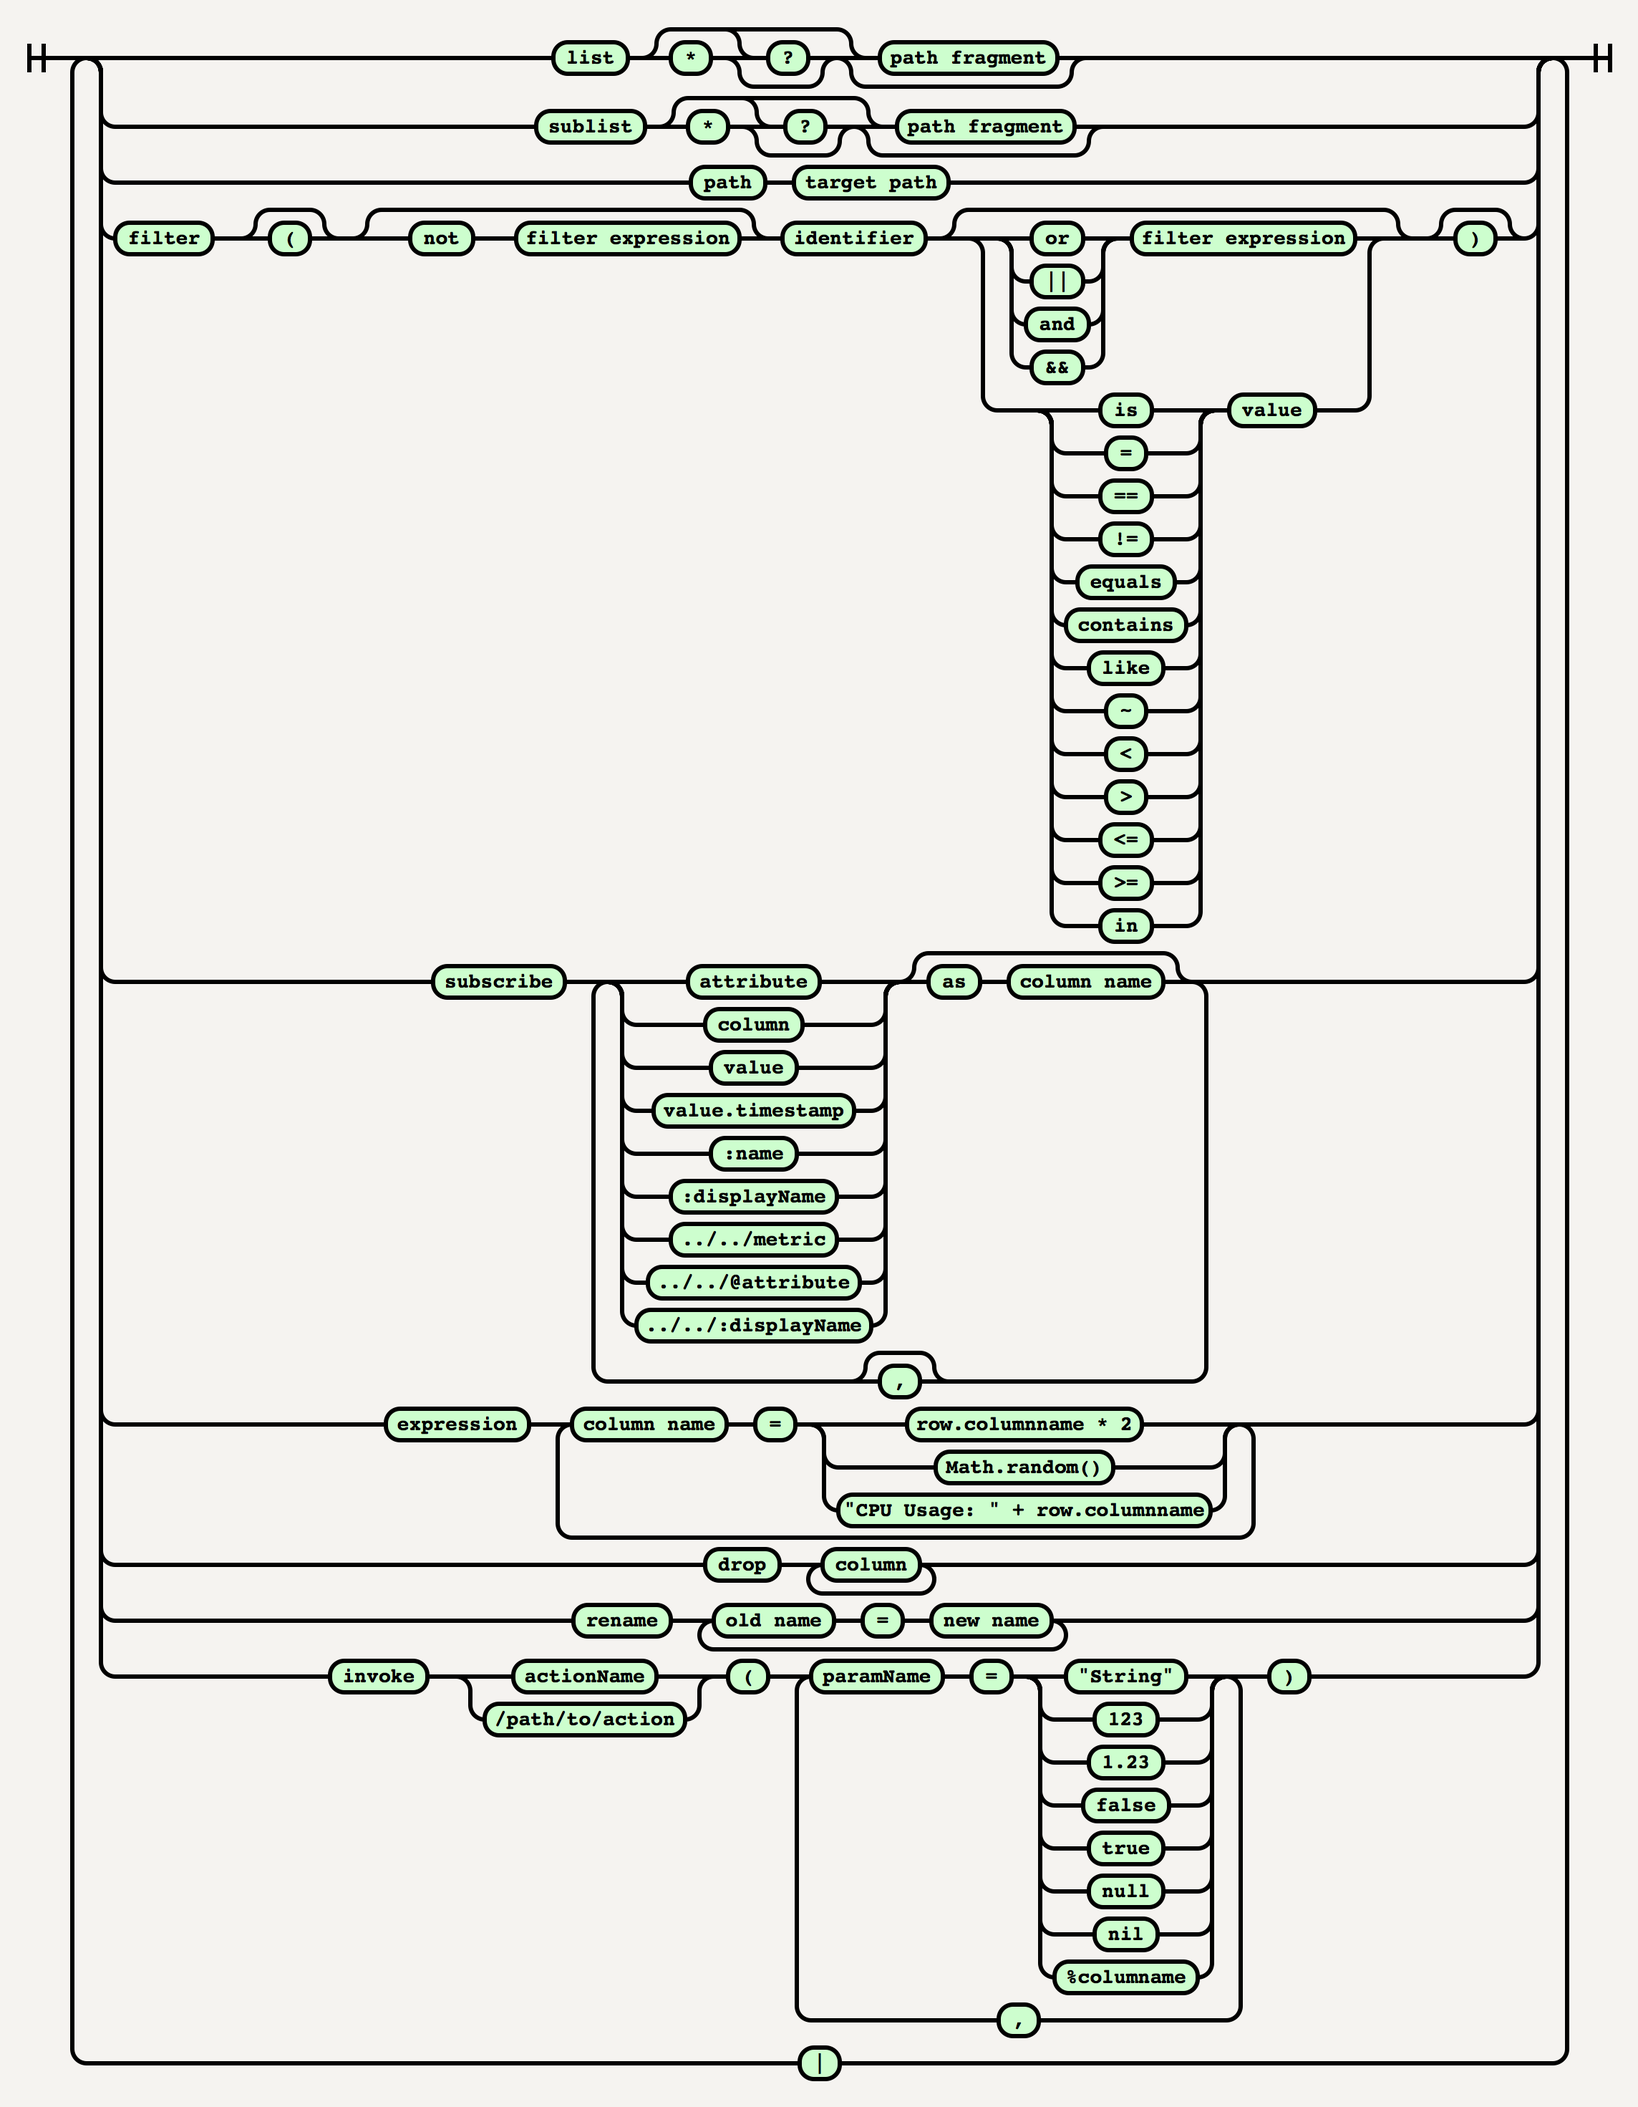
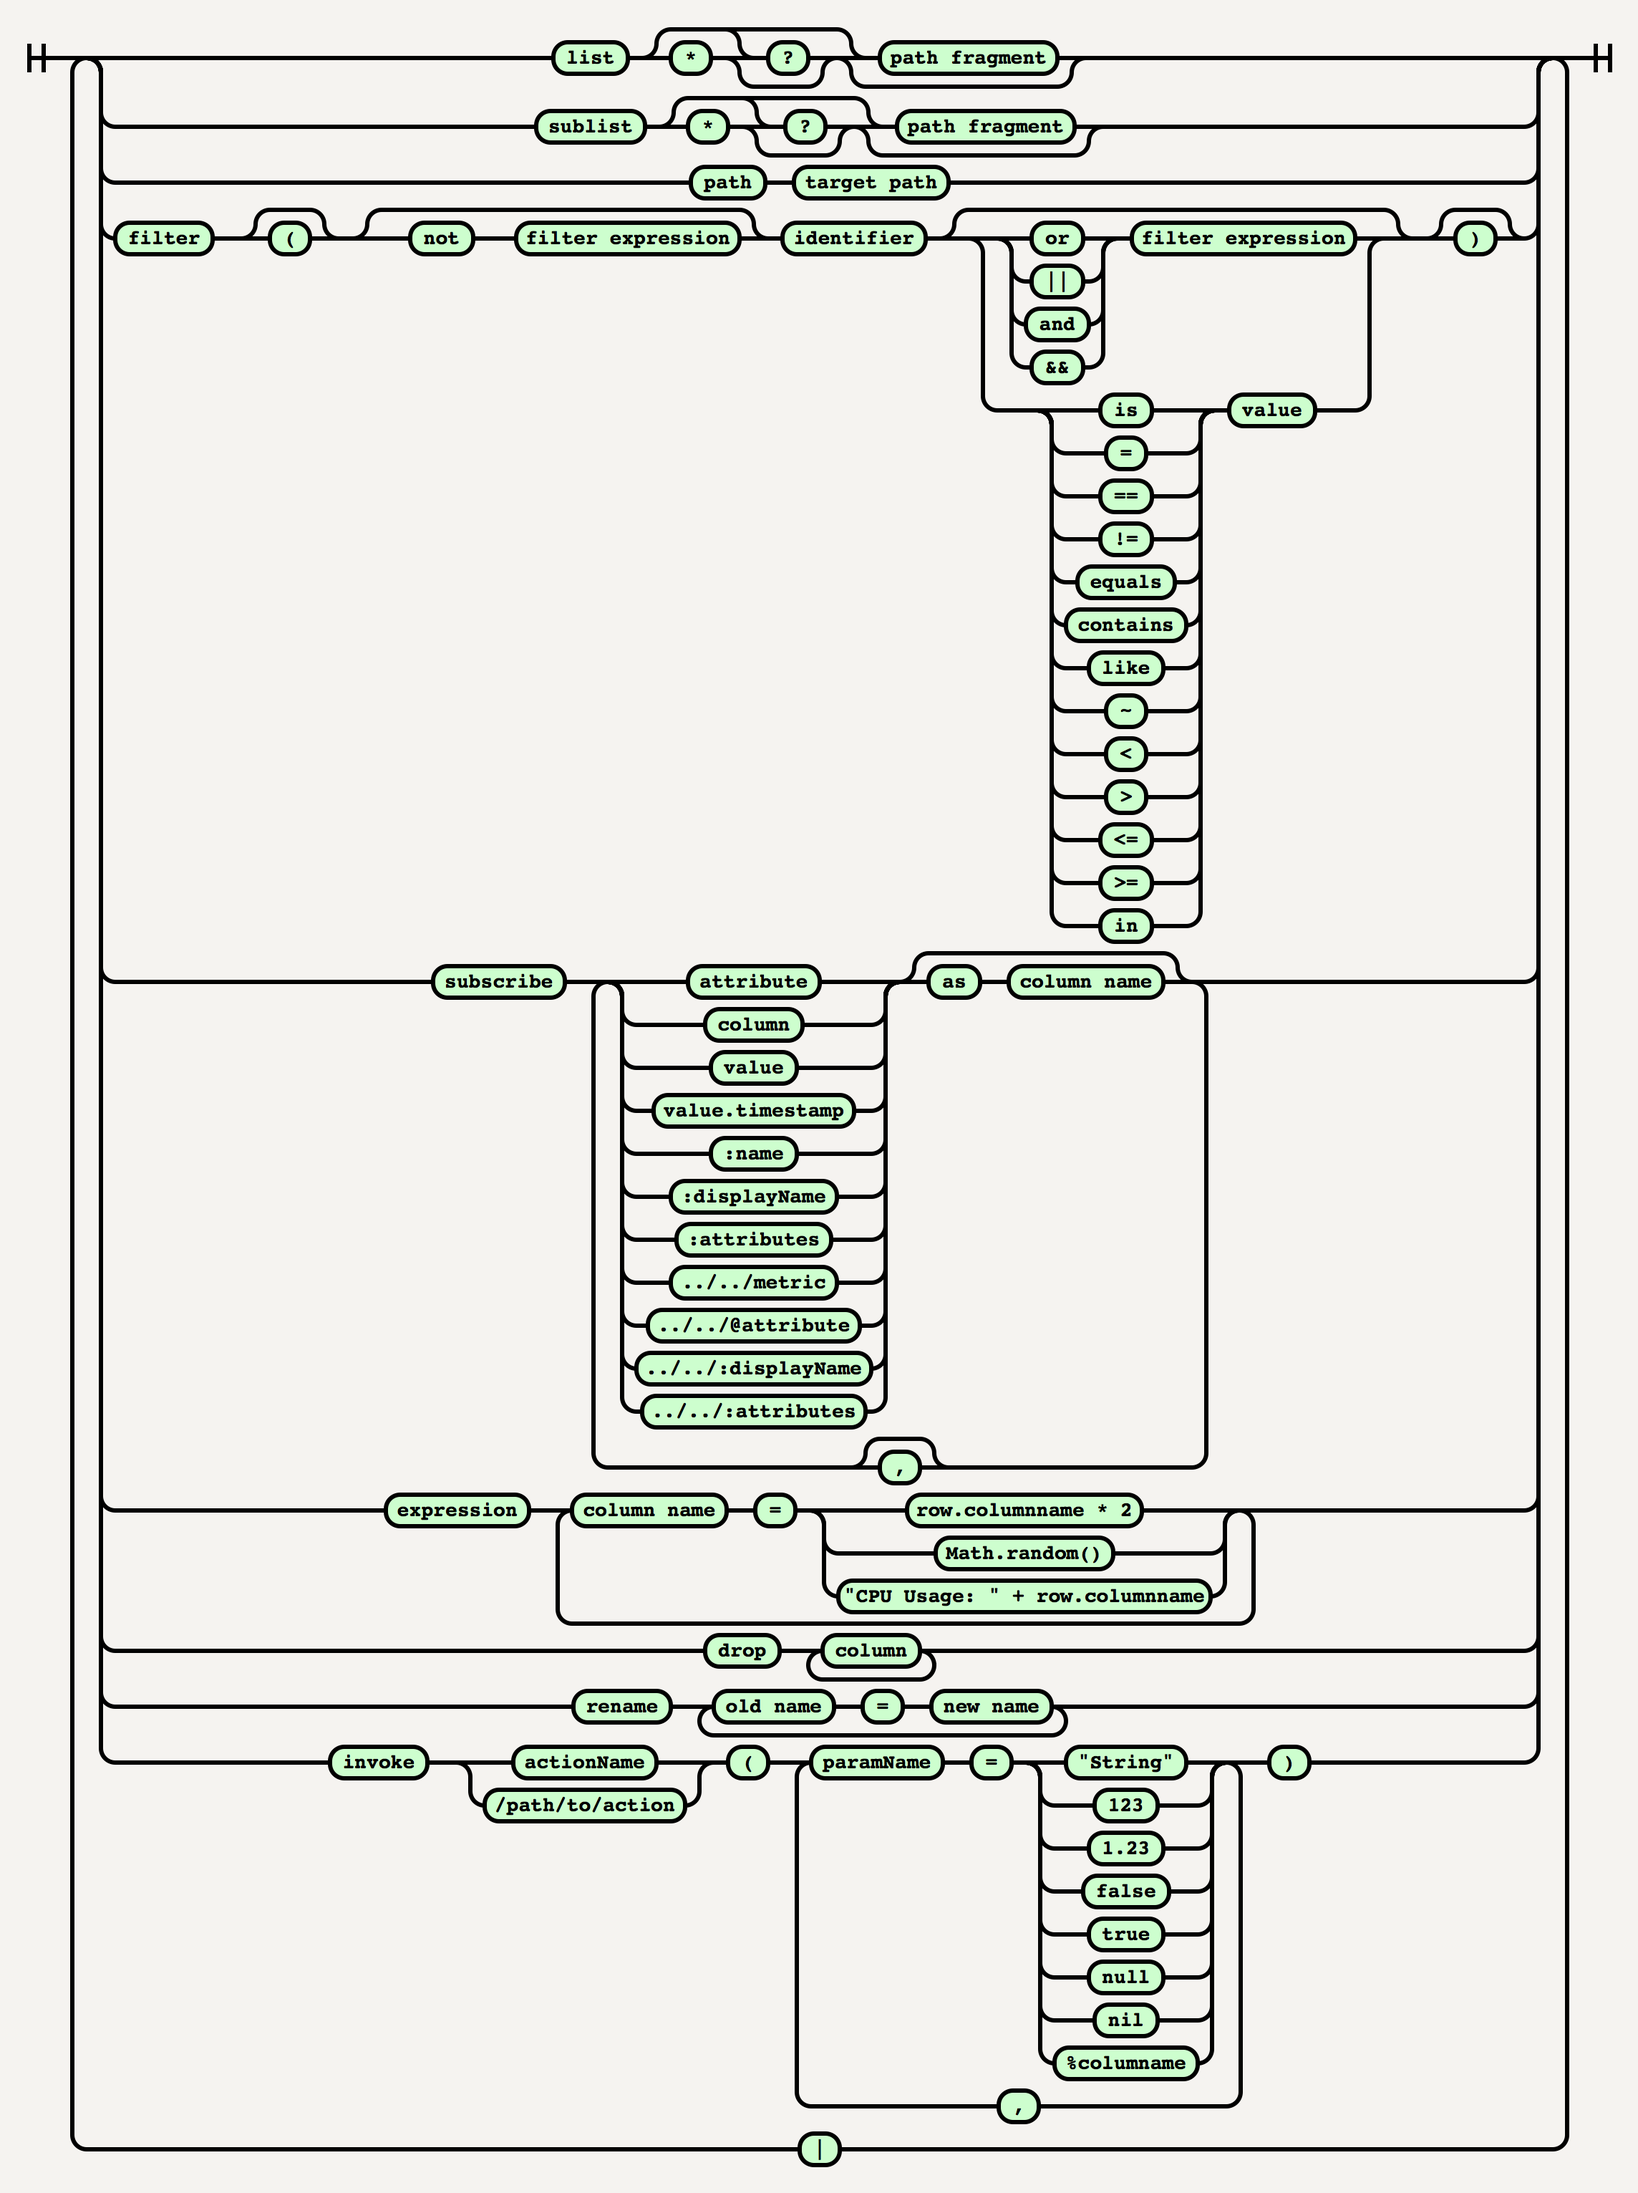
Update Diagram and DGScript.

Changed region(s): [[0.0621, 0.0, 0.9309, 0.9898]]

diff --git a/tool/diagram.js b/tool/diagram.js
@@ -87,9 +87,11 @@ _diagram = Diagram(
               'value.timestamp',
               ':name',
               ':displayName',
+              ':attributes',
               '../../metric',
               '../../@attribute',
-              '../../:displayName'
+              '../../:displayName',
+              '../../:attributes'
             ),
             Optional(
               Sequence(

diff --git a/lib/addons/script.dart b/lib/addons/script.dart
@@ -1820,7 +1820,7 @@ class Sequence extends Expression {
   }
   Object run(Scope scope) {
     Object rslt;
-    for (Statement statement in expressions) {
+    for (Expression statement in expressions) {
       rslt = statement.run(scope);
     }
     return rslt;
